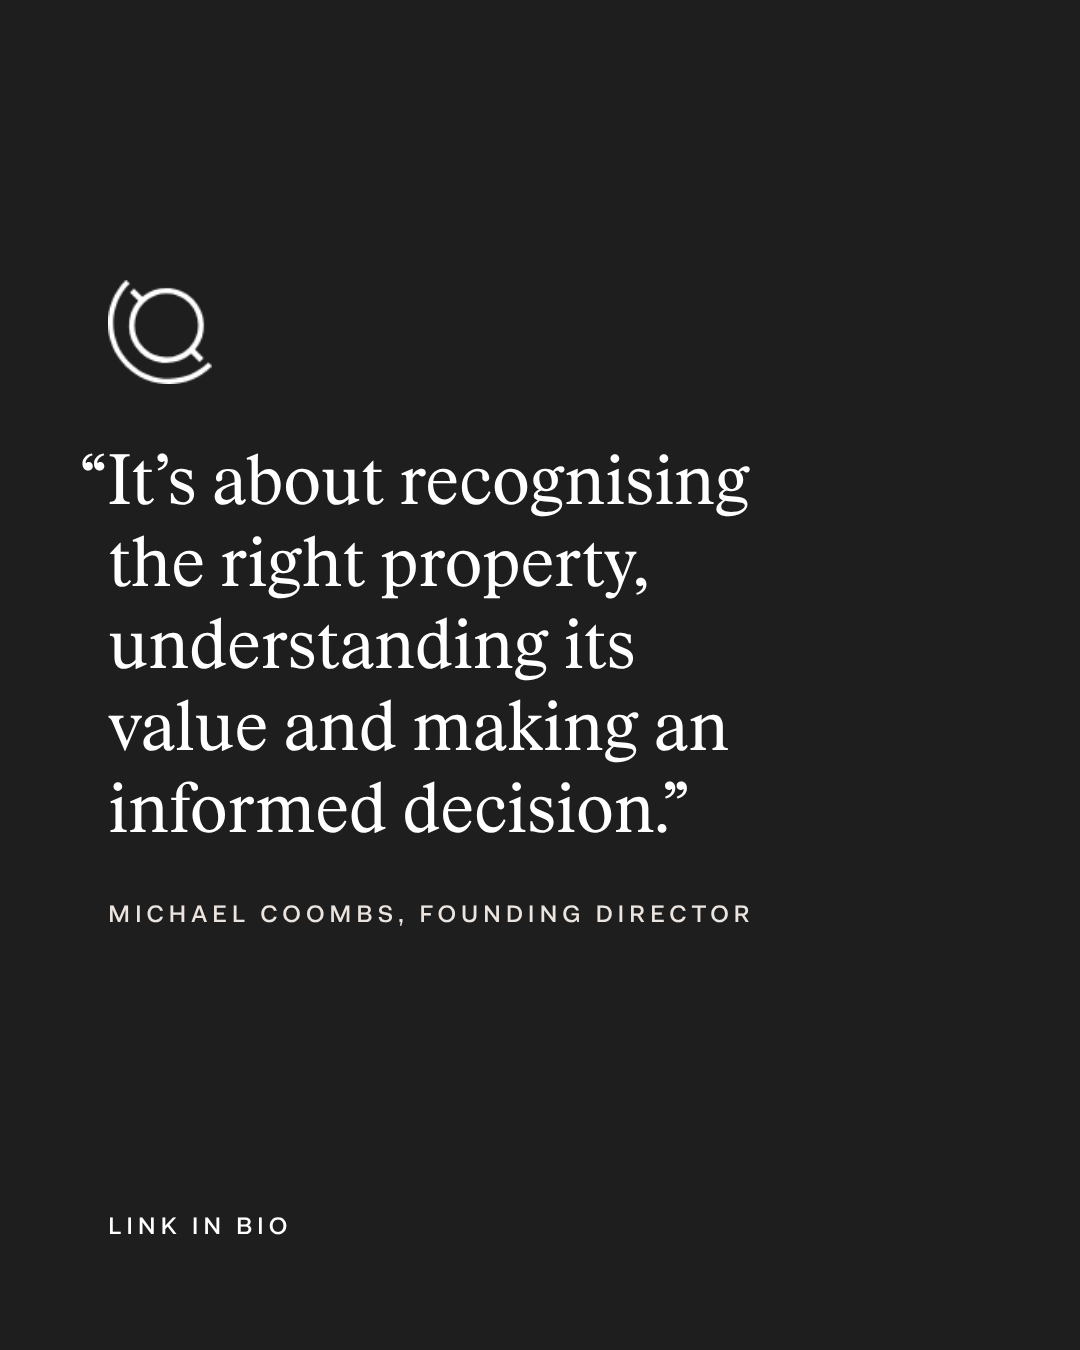
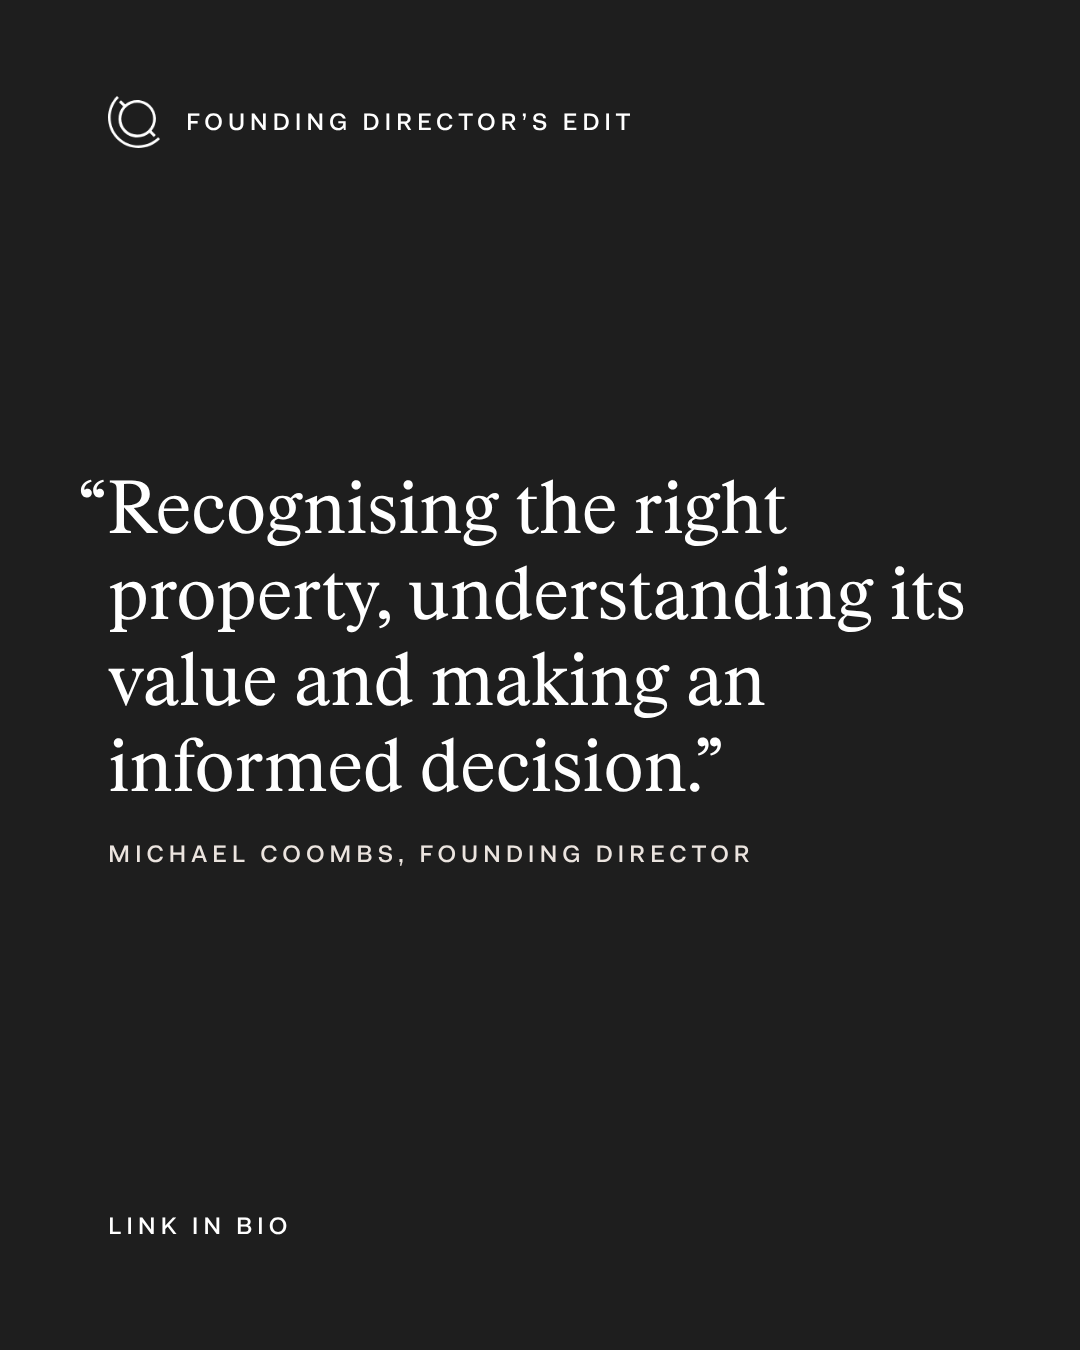
Founding Director's Edit carousel v5: one type system, final copy
One serif size (72px) and one label size (24px caps) on every card.
Text-only cards are 4 lines and start at the same height; headlines are 2 lines.

Claude-Session: https://claude.ai/code/session_01JwaQGF29hCT2wGxLRb5jt9

diff --git a/founding-directors-edit/2026-11-carousel/caption.md b/founding-directors-edit/2026-11-carousel/caption.md
@@ -3,18 +3,21 @@
 8 slides, 1080 x 1350 (4:5). Post in order `01.png` to `08.png`.
 Layout follows the Atlas feed carousels in Canva (Life and Local, Meet the Team, PM Case Study): brandmark and series tag top-left, photo-led slides, Stone, White and Terra, and a Stone end card with LINK IN BIO.
 
-## On-slide copy (tightened 10 Nov 2026, layout v4)
+## On-slide copy (final, 10 Nov 2026)
 
-1. A note from Michael Coombs / Where I'm seeing opportunity.
+Type system: one serif size (Rhymes Text 72px) and one label size (Fakt 24px caps) on every card.
+Length rules: text-only cards (2, 5, 8) are 80-95 characters (4 lines); headlines are max 48 characters (2 lines); labels max 32 characters.
+
+1. Where I'm seeing opportunity. / A note from Michael Coombs
 2. Some of the most compelling opportunities are in homes that would be difficult to recreate.
 3. The value of what's already built. / 9 Burrawong Avenue, Mosman
 4. Burrawong alone took six years to create. / Designed by McNally Architects
-5. What would it take to achieve the same result?
-6. LOOKING AHEAD (label) / My expectation is that the market will remain relatively steady.
+5. It's worth considering what it would take to achieve the same result, in time and cost.
+6. I expect the market to remain relatively steady. / Looking ahead
 7. Two exceptional Mosman residences. / 9 Burrawong Avenue / 9 Sirius Avenue
-8. "It's about recognising the right property, understanding its value and making an informed decision." / Michael Coombs, Founding Director / Link in bio
+8. "Recognising the right property, understanding its value and making an informed decision." / Michael Coombs, Founding Director / Link in bio
 
-Slides 2, 4, 6 and 8 are excerpts of Michael's approved email copy. Slide 5 rewords his line as a question; confirm he's happy with it.
+Cards 5, 6 and 8 reword Michael's approved email lines; confirm he's happy with them before posting.
 
 ## Caption
 
